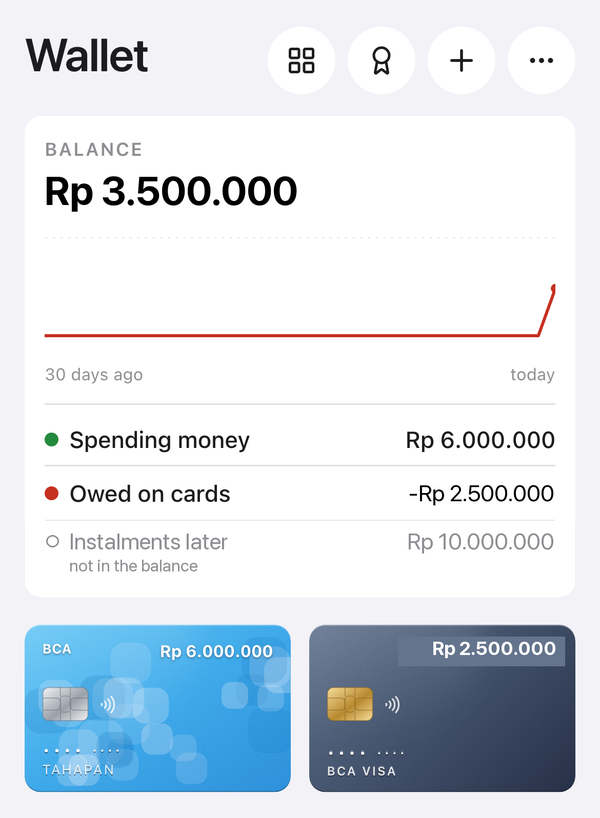
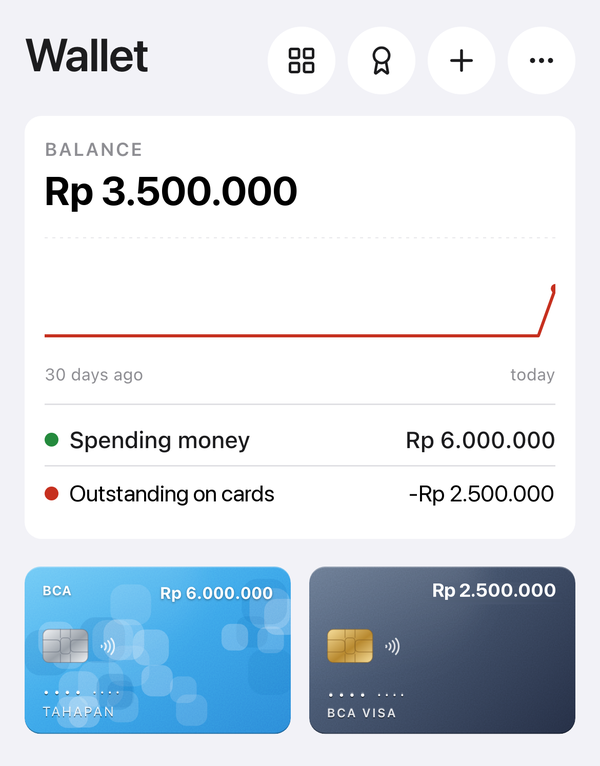
Instalments mockup: Wallet option 2 renamed Outstanding on cards with no third row; card back A (Instalments box) / B (available line)

diff --git a/docs/mockups/2026-11-17-instalments-wallet.html b/docs/mockups/2026-11-17-instalments-wallet.html
@@ -12,11 +12,18 @@ img{width:300px;border-radius:20px;box-shadow:0 1px 3px rgba(0,0,0,.15);display:
 <div class="row">
  <div class="col"><p class="cap"><span class="lab t">TODAY</span>Balance −Rp 6.500.000</p><p class="note">Owed on cards counts all 6 instalments, so the balance goes below zero.</p><img src="instalments-wallet/w-today.png"></div>
  <div class="col"><p class="cap"><span class="lab n">1</span>Same figures, explained</p><p class="note">Balance still −Rp 6.500.000; one grey line says Rp 10.000.000 of what is owed is instalments not billed yet.</p><img src="instalments-wallet/w-opt1.png"></div>
- <div class="col"><p class="cap"><span class="lab n">2</span>Only what is due counts</p><p class="note">Owed on cards −Rp 2.500.000 → Balance Rp 3.500.000. "Instalments later Rp 10.000.000" is shown in grey, not in the balance. The card tile shows Rp 2.500.000.</p><img src="instalments-wallet/w-opt2.png"></div>
+ <div class="col"><p class="cap"><span class="lab n">2</span>Only what is due counts</p><p class="note">"Owed on cards" becomes "Outstanding on cards" −Rp 2.500.000 (what is due: purchases + instalments billed) → Balance Rp 3.500.000. No third row. The card tile shows Rp 2.500.000.</p><img src="instalments-wallet/w-opt2.png"></div>
 </div>
 <h2>The card's back</h2>
 <div class="row">
  <div class="col"><p class="cap"><span class="lab t">TODAY</span>Outstanding Rp 12.500.000</p><p class="note">The whole plan is in the figure.</p><img src="instalments-wallet/b-today.png"></div>
  <div class="col"><p class="cap"><span class="lab n">1</span>Same figure, explained</p><p class="note">"Rp 10.000.000 of it in later instalments" under it. Matches the bank's outstanding.</p><img src="instalments-wallet/b-opt1.png"></div>
  <div class="col"><p class="cap"><span class="lab n">2</span>What is due, the rest under it</p><p class="note">Outstanding Rp 2.500.000; "+ Rp 10.000.000 in later instalments" under it. Available stays Rp 17.500.000 (the bank still holds the plan on the limit).</p><img src="instalments-wallet/b-opt2.png"></div>
+</div>
+<h2>The card's back, option 2 without the "+ … later instalments" line</h2>
+<p class="sub">Outstanding shows only what is due (Rp 2.500.000). Where the later instalments show instead:</p>
+<div class="row">
+ <div class="col"><p class="cap"><span class="lab t">TODAY</span>Card page</p><p class="note">Outstanding Rp 12.500.000; the Instalments box under the buttons says "Rp 12.000.000 left · 0 of 6 paid".</p><img src="instalments-wallet/b-today-full.png"></div>
+ <div class="col"><p class="cap"><span class="lab n">A</span>In the Instalments box</p><p class="note">Nothing extra on the card. The Instalments box header says "Rp 10.000.000 later"; each plan says what is still to come ("Rp 10.000.000 later · 1 of 6 billed").</p><img src="instalments-wallet/b-optA.png"></div>
+ <div class="col"><p class="cap"><span class="lab n">B</span>In the available line</p><p class="note">The line under the bar already exists: "Rp 17.500.000 available · Rp 10.000.000 in instalments" — the hatched part of the bar is exactly that.</p><img src="instalments-wallet/b-optB.png"></div>
 </div></body></html>
